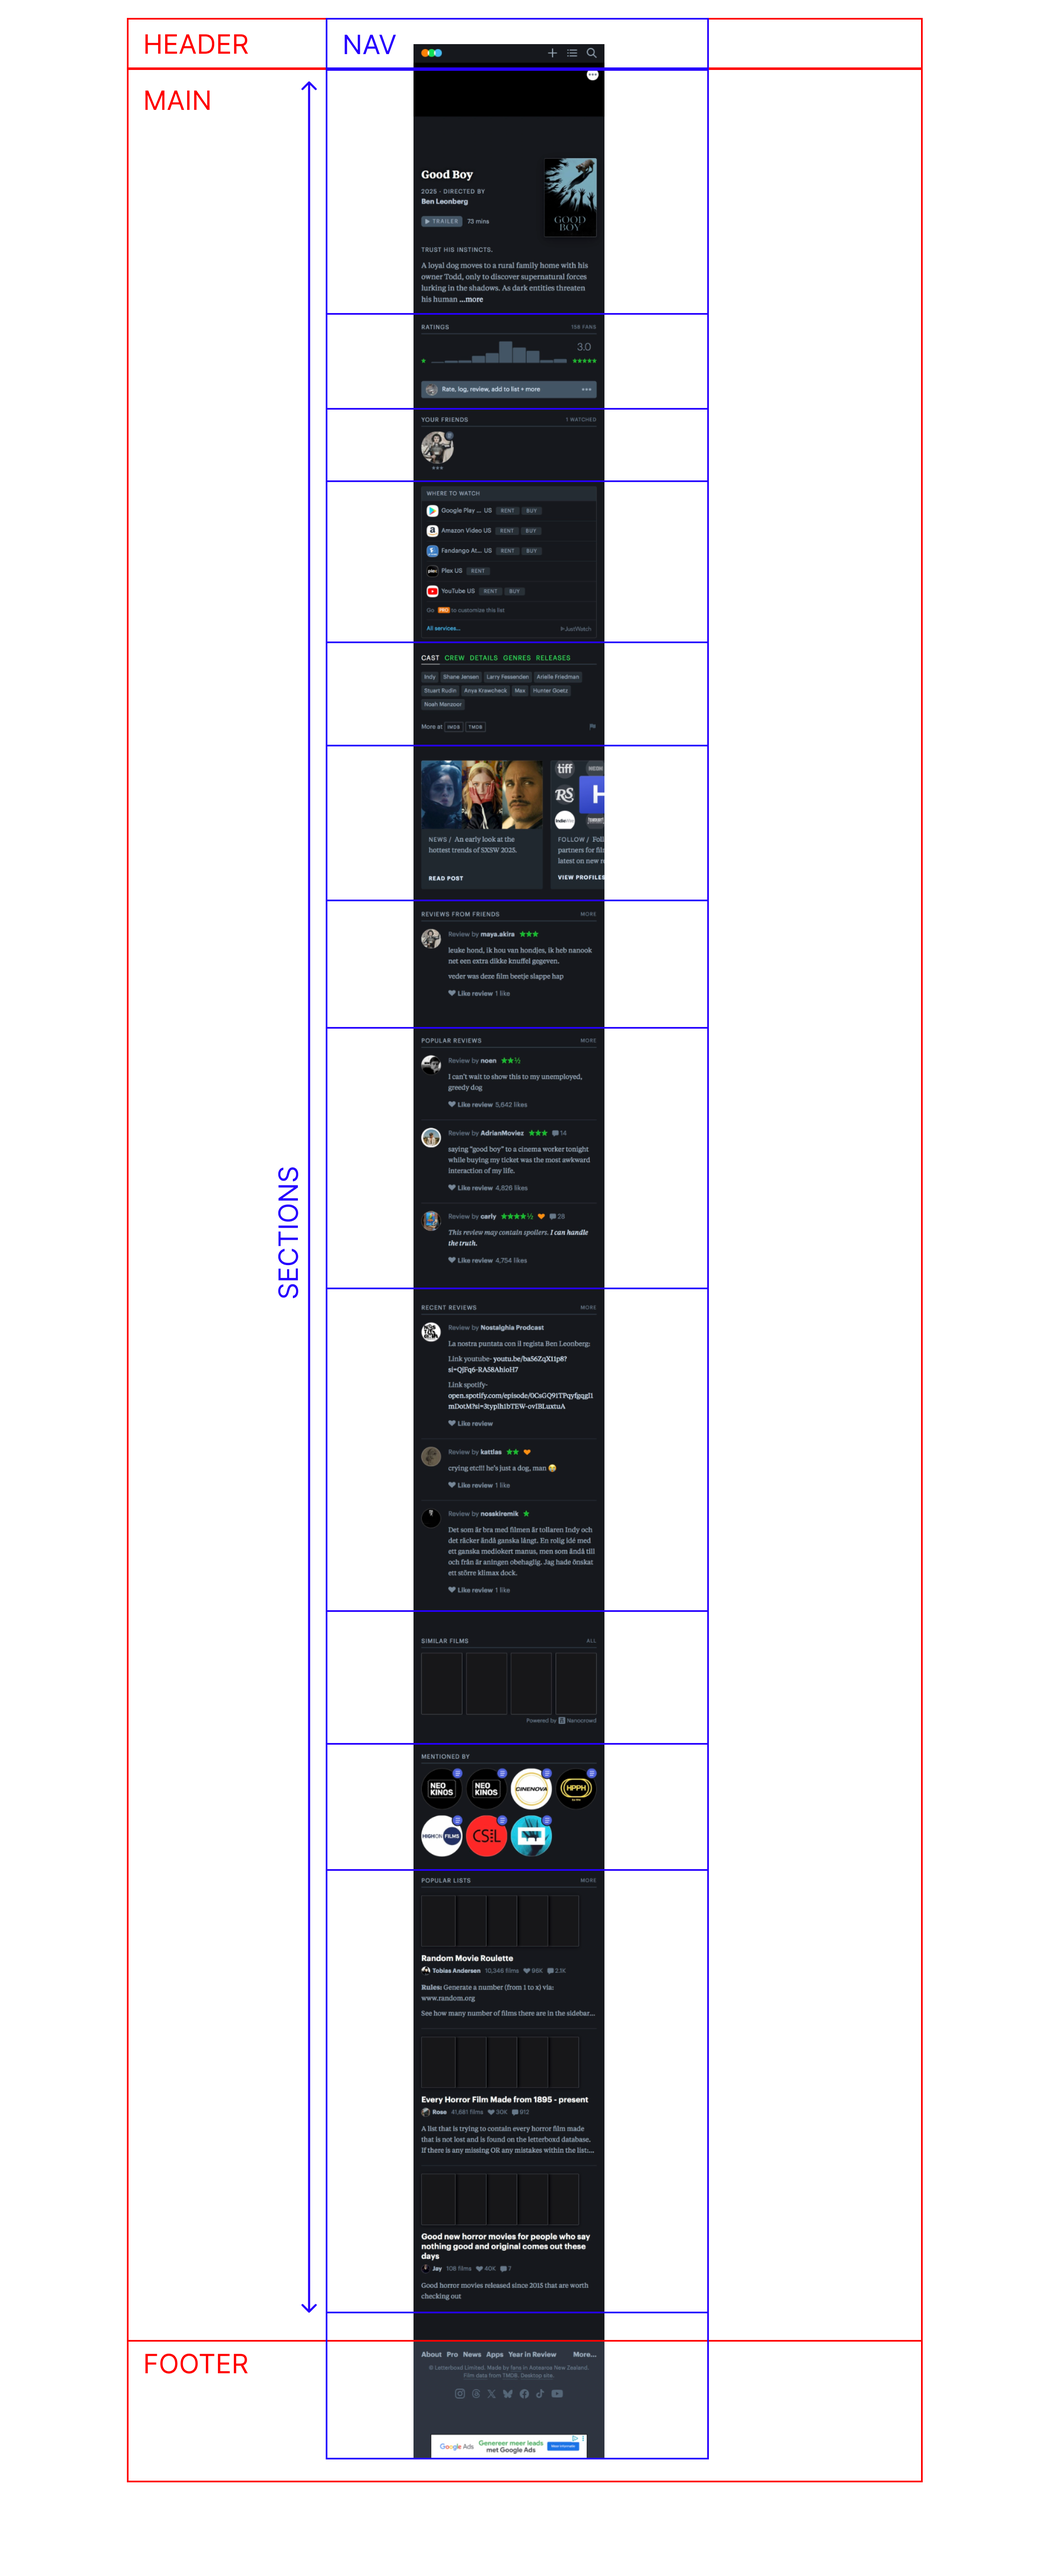
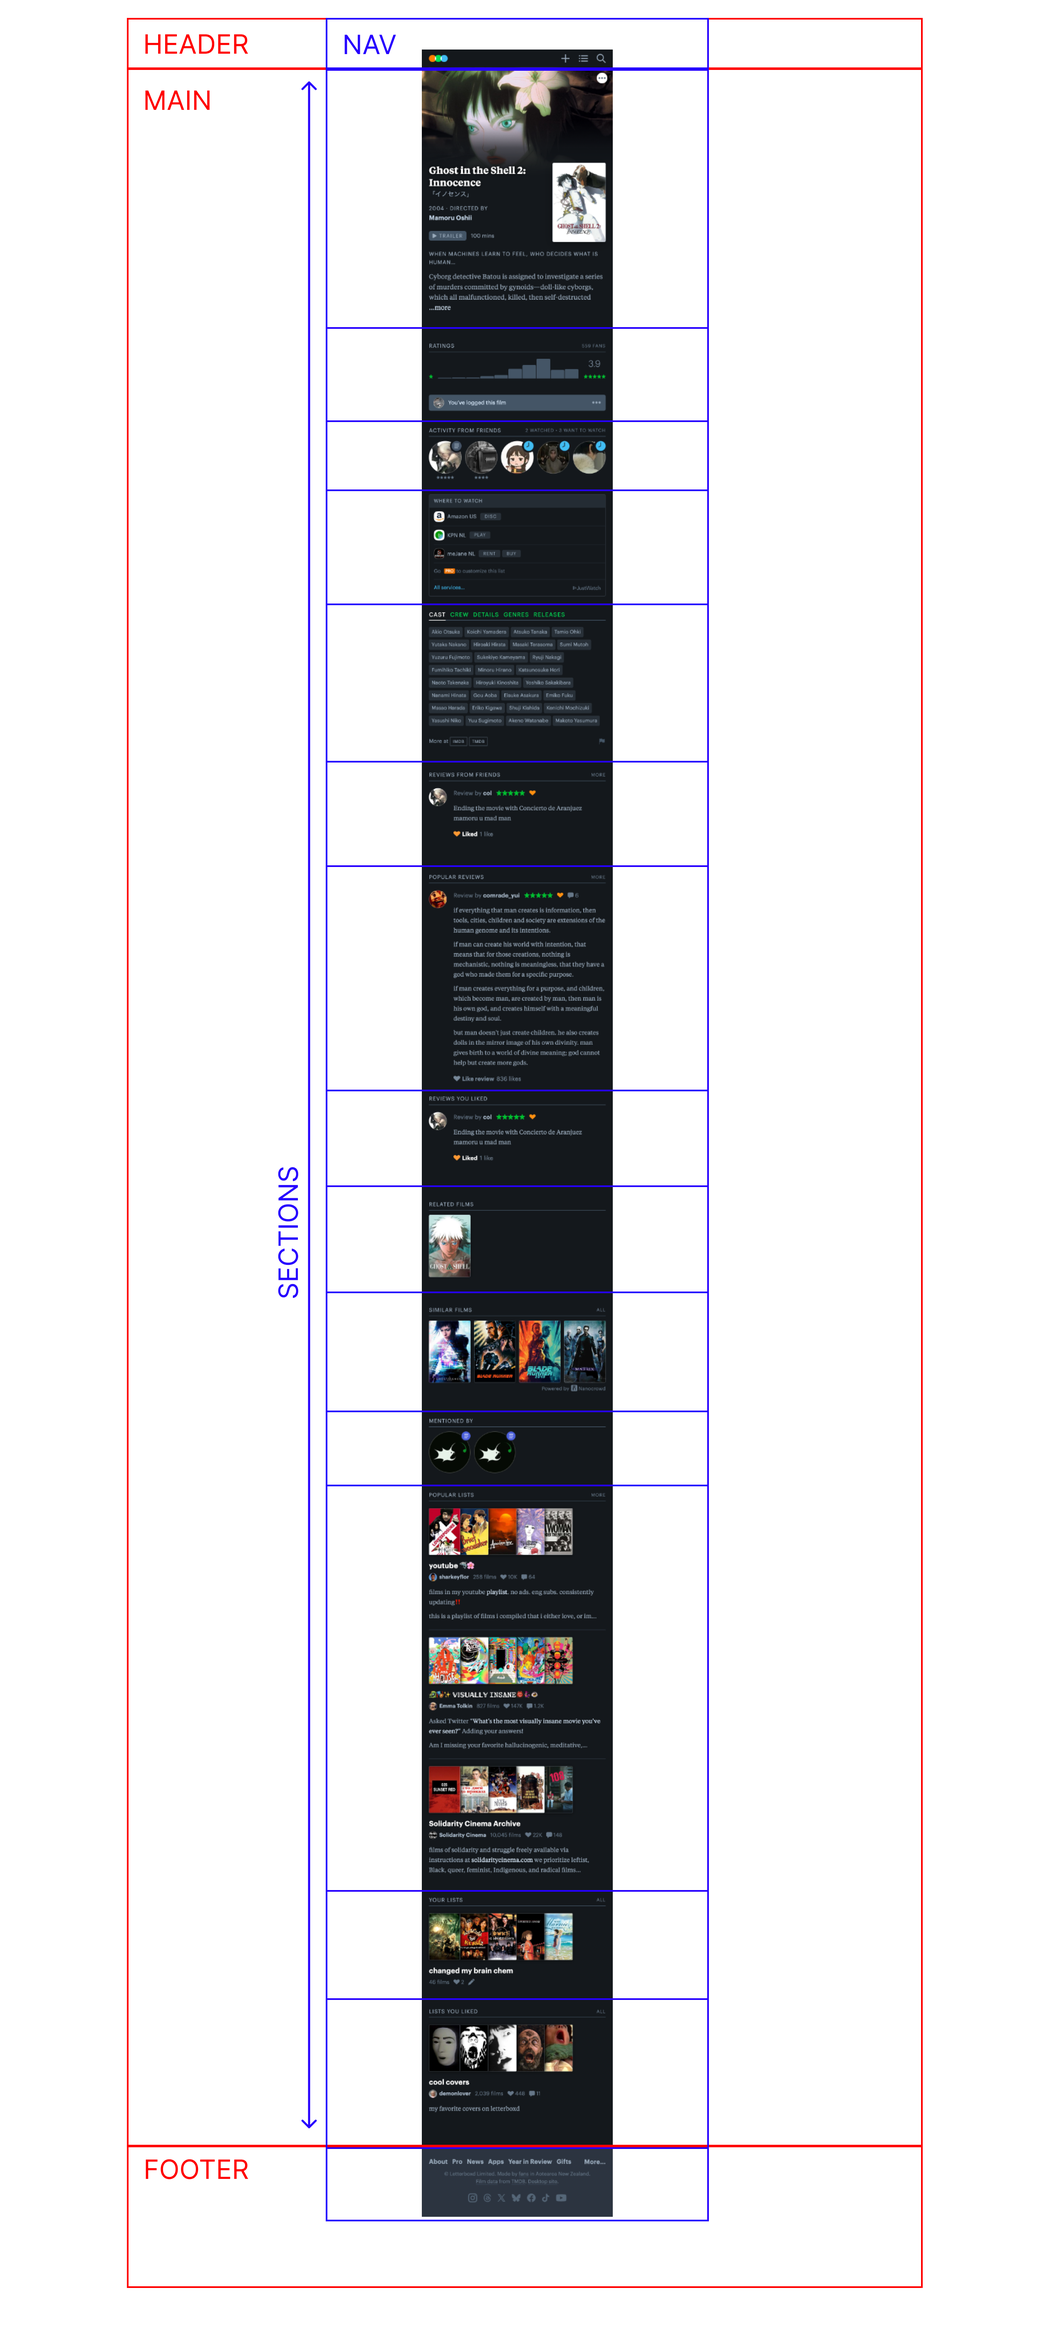
readme, filmpagina, index

diff --git a/filmpagina.html b/filmpagina.html
@@ -6,7 +6,7 @@
 	<meta name="author" content="august">
 	<meta name="viewport" content="width=device-width, initial-scale=1.0">
 
-	<title>Letterboxd</title>
+	<title>Ghost in the Shell 2: Innocence (2004) directed by Mamoru Oshii</title>
 
 	<link href="styles/style.css" rel="stylesheet">
 	<link rel="icon" type="image/png" href="images/favicon.png">
@@ -14,19 +14,110 @@
 
 <body class="filmpagina">
 	<header>
-<img class="logo" src="https://a.ltrbxd.com/logos/letterboxd-logo-h-neg-rgb.svg" alt="Homepage Letterboxd logo">
+		<img class="logo" src="https://a.ltrbxd.com/logos/letterboxd-logo-h-neg-rgb.svg" alt="Homepage Letterboxd logo">
 		<nav></nav>
 	</header>
 
 	<main>
 
-<img src="images/ghost in the shell-background-image.jpg" alt="Movieframe of Ghost in the Shell 2.">		
+		<img src="images/ghost in the shell-background-image.jpg" alt="Movieframe of Ghost in the Shell 2.">
 
 		<section>
-			<h1>Ghost in the Shell 2: Innocence</h1>
-			<p></p>
-			<img src="images/44762-ghost-in-the-shell-2-innocence-0-460-0-690-crop.jpg" alt="Movieframe of Ghost in the Shell 2.">
+			<h1 aria-label="Moviename">Ghost in the Shell 2: Innocence</h1>
+			<img src="images/44762-ghost-in-the-shell-2-innocence-0-460-0-690-crop.jpg"
+				alt="Movieframe of Ghost in the Shell 2.">
+			<h2 aria-label="Alternative title"><em>イノセンス</em></h2>
+			<p>2004</p>
+			<p>Directed by</p>
+			<p><strong>Mamoru Oshii</strong></p>
+			<button type="button" name="button">Trailer</button>
+			<p>100 mins</p>
+			<h3 aria-label="Tagline">When machines learn to feel, who decides what is human…</h3>
+			<p aria-label="Synopsis">Cyborg detective Batou is assigned to investigate a series of murders committed by
+				gynoids—doll-like cyborgs, which all malfunctioned, killed, then self-destructed afterwards. The brains
+				of the gynoids initialize in order to protect their manufacturer’s software, but in one gynoid, which
+				Batou himself neutralized, one file remains: a voice speaking the phrase “Help me.”</p>
 		</section>
+
+		<section>
+			<h2>Ratings</h2>
+			<a href="#">559 fans</a>
+			<!-- hier moet een grafiek komen -->
+			<button type="button" name="button">
+				<img class="profile" src="images/avatar.jpeg" alt="">
+				You've logged this film
+			</button>
+		</section>
+
+		<section>
+			<h2>Activity from friends</h2>
+			<a href="#">2 Watched</a>
+			<span>•</span>
+			<a href="#">3 Want to watch</a>
+			<ul class="activity">
+				<li>
+					<img src="images/avatar.jpeg" alt="">
+					<p>★★★</p>
+				</li>
+				<li>
+					<img src="images/avatar.jpeg" alt="">
+					<p>★★★</p>
+				</li>
+				<li>
+					<img src="images/avatar.jpeg" alt="">
+					<p>★★★</p>
+				</li>
+				<li>
+					<img src="images/avatar.jpeg" alt="">
+					<p>★★★</p>
+				</li>
+				<li>
+					<img src="images/avatar.jpeg" alt="">
+					<p>★★★</p>
+				</li>
+			</ul>
+		</section>
+
+		<section>
+			<h2>Where to watch</h2>
+		</section>
+
+		<section>
+			<h2>Where to h</h2>
+		</section>
+
+		<section>
+			<h2>Reviews from friends</h2>
+			<a href="#">More</a>
+		</section>
+
+		<section>
+			<h2>Popular reviews</h2>
+			<a href="#">More</a>
+		</section>
+
+		<section>
+			<h2>Reviews you liked</h2>
+		</section>
+
+		<section>
+			<h2>Related Films</h2>
+		</section>
+
+		<section>
+			<h2>Similar films</h2>
+			<a href="#">All</a>
+		</section>
+
+		<section>
+			<h2>Mentioned by</h2>
+		</section>
+
+		<section>
+			<h2>Popular lists</h2>
+			<a href="#">More</a>
+		</section>
+
 
 	</main>
 

diff --git a/styles/style.css b/styles/style.css
@@ -39,6 +39,8 @@ body {
 	color: #fff;
 }
 
+.
+
 header {
 	background-color: var(--headercolor);
 	color: #fff;
@@ -85,21 +87,25 @@ img {
 	width: 100%;
 }
 
-main img {
-	border-radius: .3em;
+.activity img {
+ border-radius: 50%;
 }
 
 /* bron: https://stackoverflow.com/questions/71281559/flexbox-directions-and-multiple-images-within */
 .posters {
 	display: grid;
-  	grid-template-columns: auto auto auto;
+	grid-template-columns: auto auto auto;
 	margin-bottom: 0.4em;
 }
 
-@media (min-width: 767px) { /* choose breakpoint you want */
-  .posters {
-    grid-template-columns: repeat(6, 1fr); /* widescreen: 6 per row */
-  }
+@media (min-width: 1200px) {
+	.posters {
+		grid-template-columns: repeat(6, 1fr);
+	}
+}
+
+.posters p {
+	font-size: 1.3em;
 }
 
 img.profile {
@@ -108,7 +114,7 @@ img.profile {
 	border: none;
 }
 
- section a {
+section a {
 	text-transform: uppercase;
 	text-decoration: none;
 	color: var(--color-text);
@@ -119,13 +125,17 @@ main ul {
 	padding: 0;
 	list-style: none;
 	display: flex;
-	gap:0.4em;
+	gap: 0.4em;
 }
 
 .posters li div {
 	background: var(--filmposter);
 	padding: 0.4rem 0.3rem;
-  	border-radius: 0px 0px 6px 6px;
+	border-radius: 0px 0px 6px 6px;
+}
+
+main img {
+	border-radius: .3em;
 }
 
 main li span {

diff --git a/index.html b/index.html
@@ -6,7 +6,7 @@
 	<meta name="author" content="august">
 	<meta name="viewport" content="width=device-width, initial-scale=1.0">
 
-	<title>Letterboxd</title>
+	<title>Letterboxd - Social film discovery.</title>
 
 	<link href="styles/style.css" rel="stylesheet">
 	<link rel="icon" type="image/png" href="images/favicon.png">

diff --git a/README.md b/README.md
@@ -46,7 +46,7 @@ Nb. Door *open* toe te voegen aan een *details* element kun je deze standaard op
   Letterboxd profiel
   <details open>
     <summary>screenshot van filmpagina</summary>
-     <img src="readme-images/filmpagina.JPG" width="375px" alt="Screenshot van een filmpagina op Letterboxd.">
+     <img src="readme-images/filmpagina.png" width="375px" alt="Screenshot van een filmpagina op Letterboxd.">
   </details>
  
 </details>
